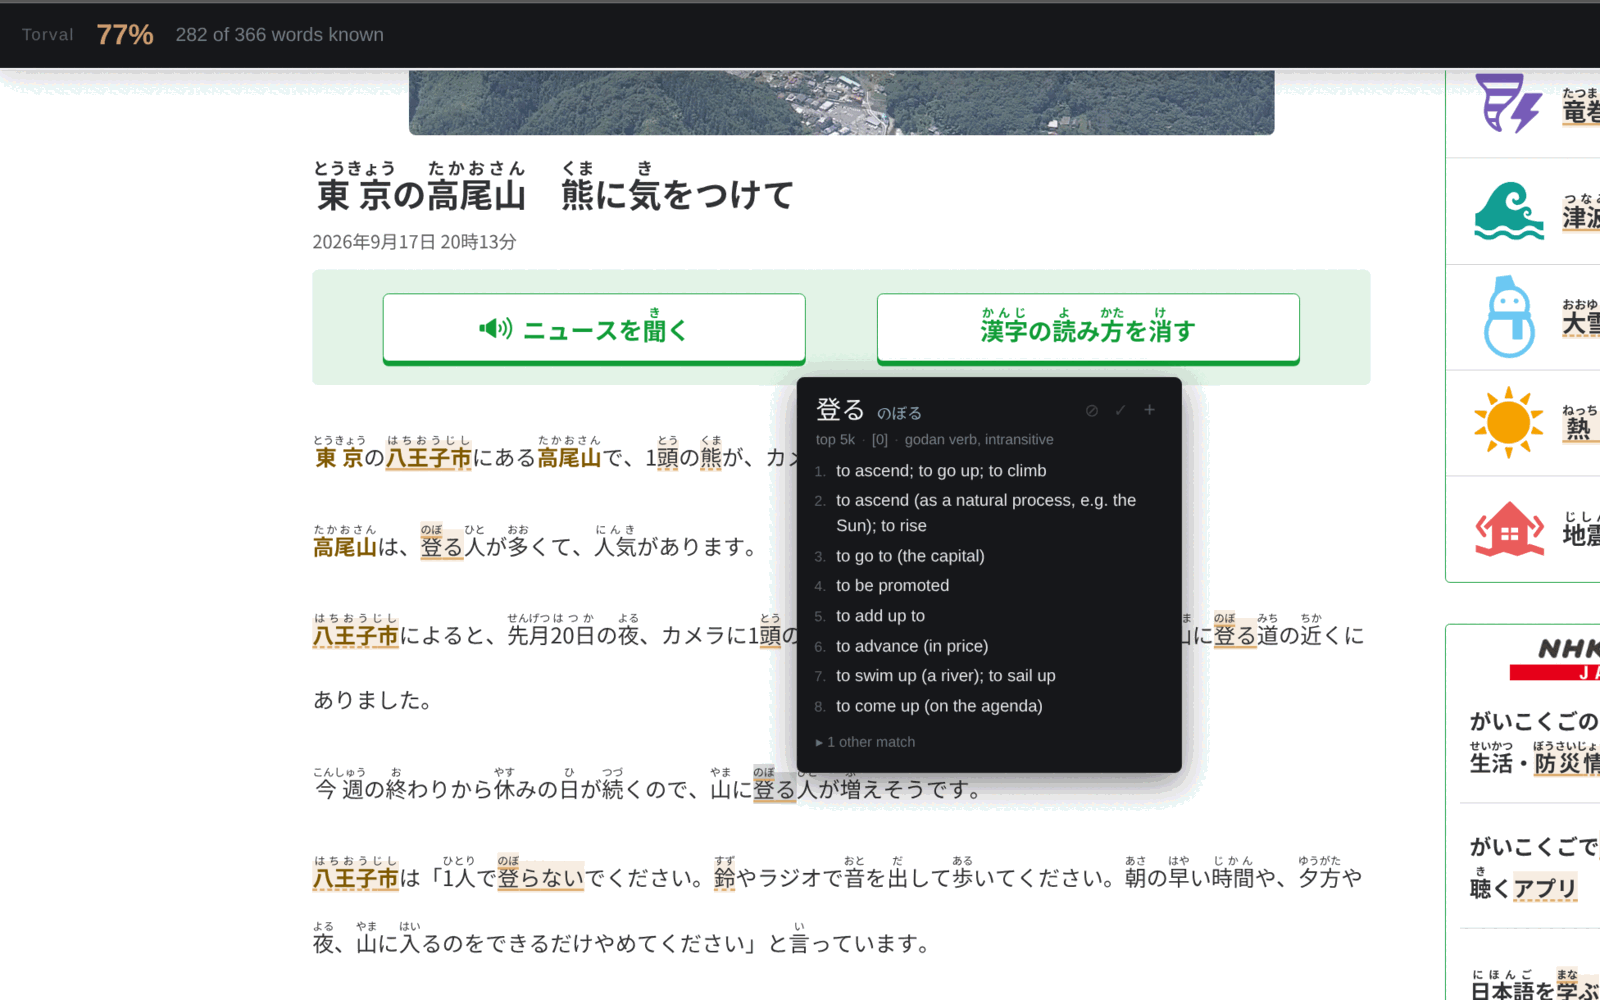
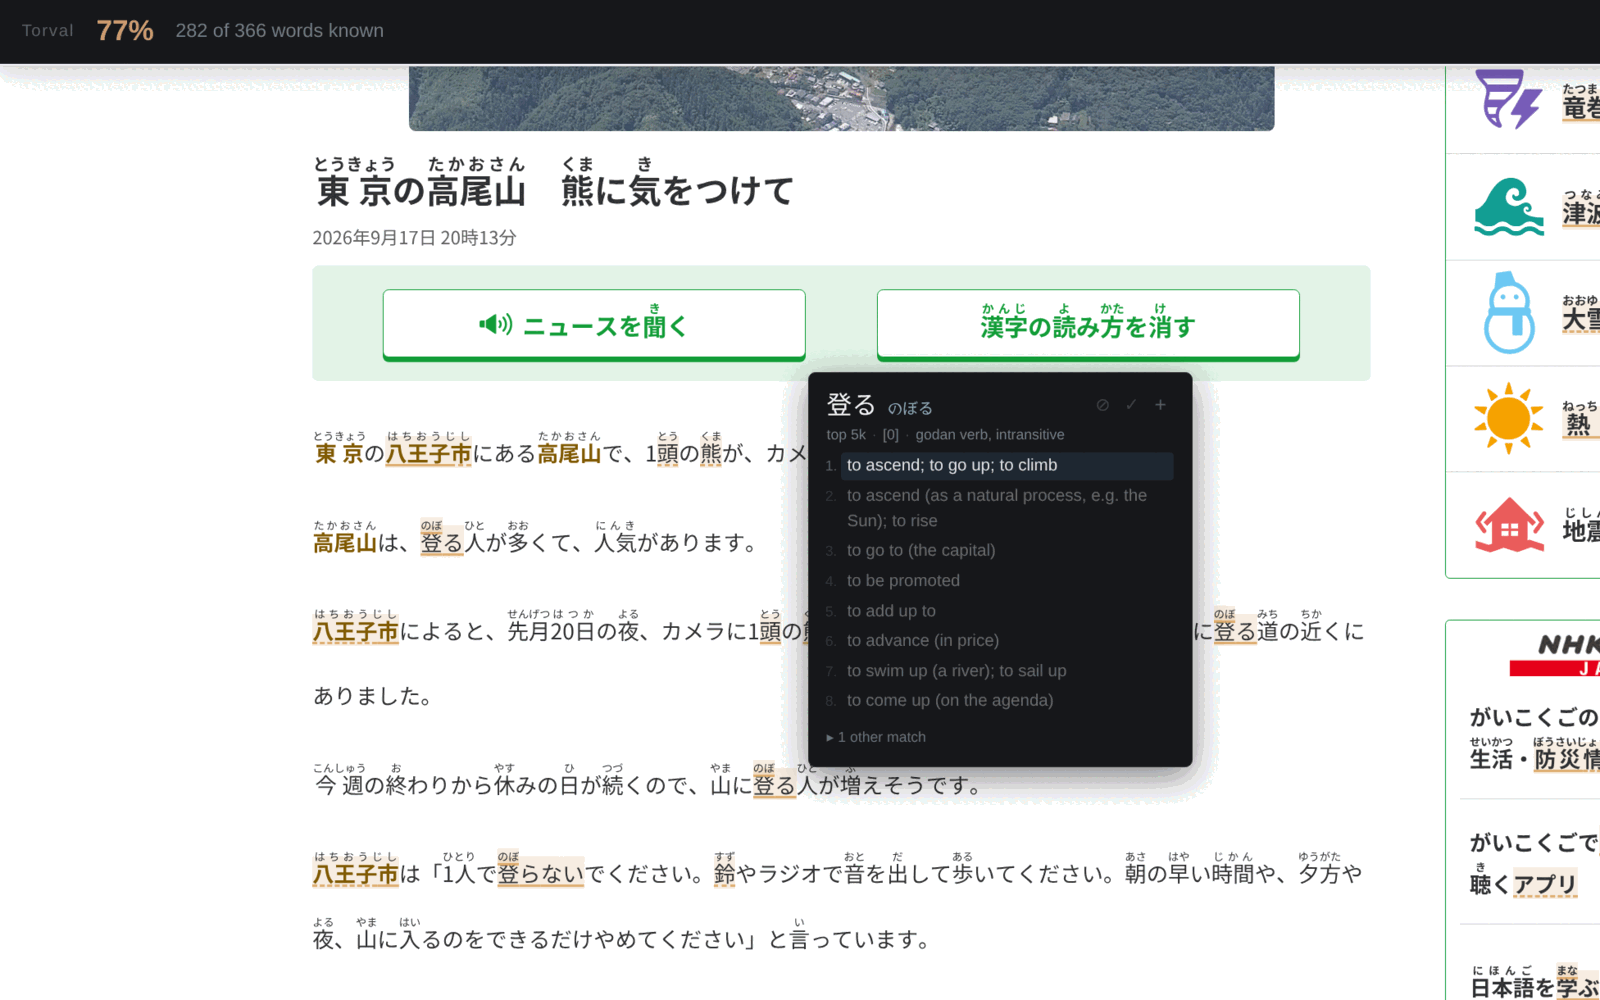
Retake two screenshots, and ask for support instead of advertising the price

diff --git a/docs/index.html b/docs/index.html
@@ -193,13 +193,13 @@
 </section>
 
 <section>
-  <h2>What it costs</h2>
+  <h2>Support the work</h2>
   <p>
-    Nothing, and there is no paid version behind it. There are no servers to
-    pay for and no accounts to run.
+    Torval is open source and built in the open, by one person. If you get
+    something out of it, you can help keep it going.
   </p>
   <div class="actions">
-    <a class="button" href="https://github.com/sponsors/jacobgerritz">Support the work</a>
+    <a class="button" href="https://github.com/sponsors/jacobgerritz">Sponsor on GitHub</a>
   </div>
 </section>
 
